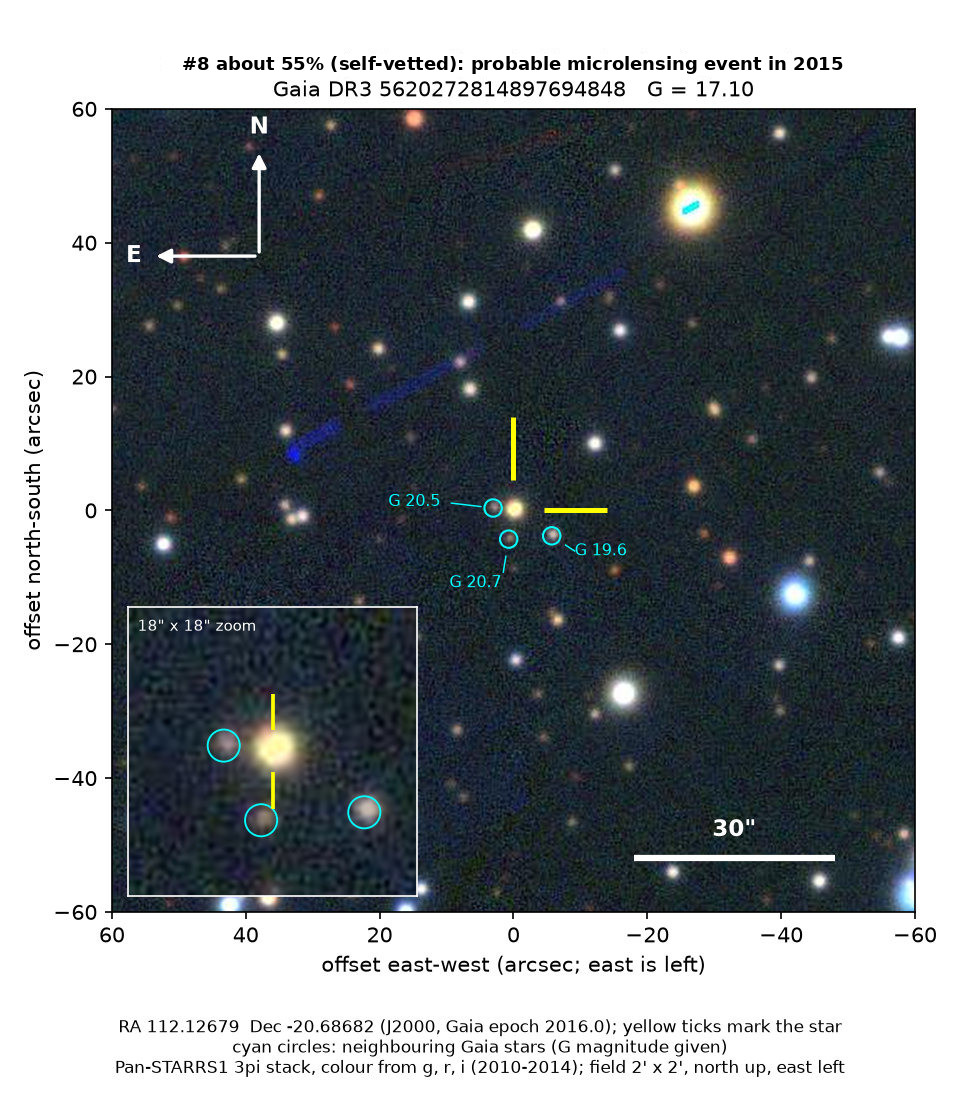
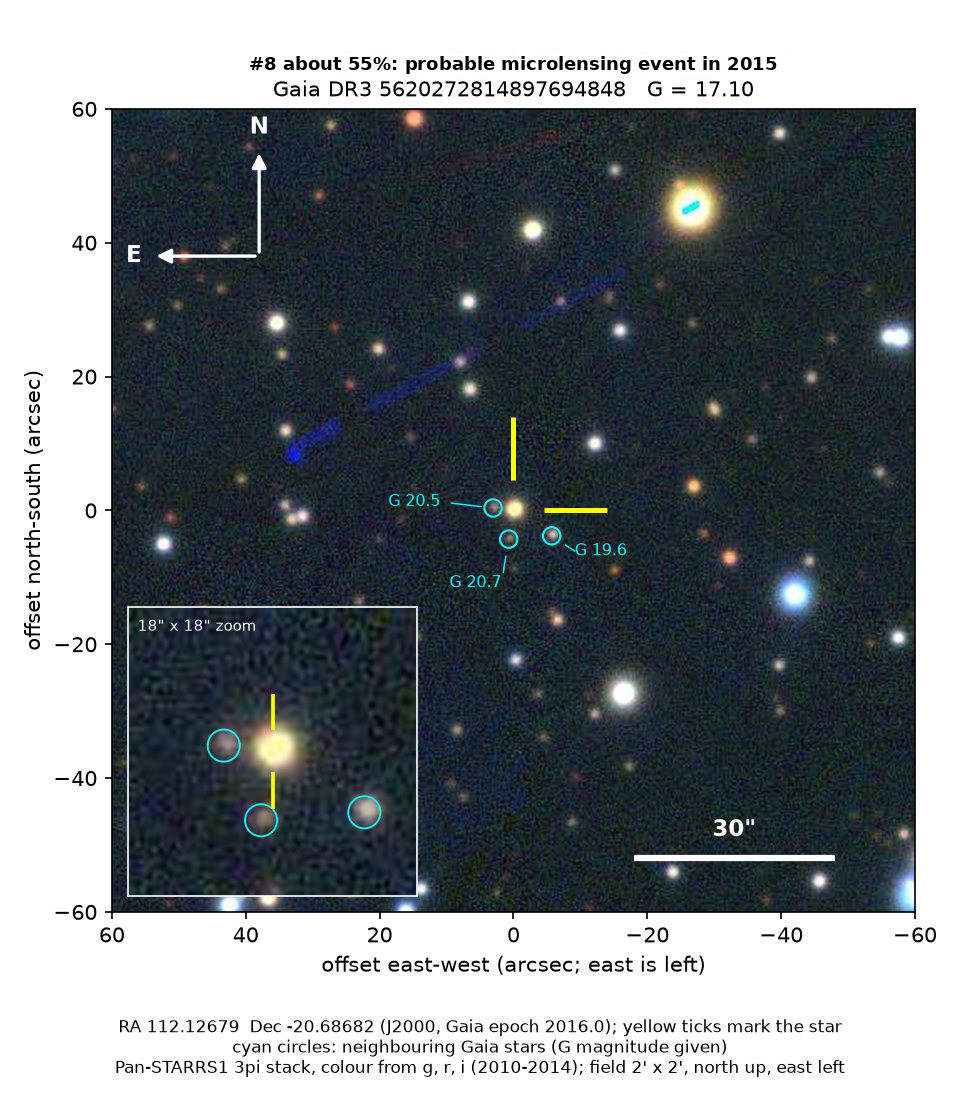
Galaxy: figure labels without internal notes
Drop "(self-vetted)" from the title line of the finder charts and light
curves of candidates 1 to 10 (the glyphs are cut out and the line
re-centred; nothing else in the figures changes). On candidate 4, the
epochs figure no longer ends with a pointer to an unpublished data file,
and the light-curve note points to the caption instead of a README.

Changed region(s): [[0.1875, 0.0311, 0.875, 0.0621]]

diff --git a/vibe-projects/galaxy/4-brightening-381248613189061632/index.html b/vibe-projects/galaxy/4-brightening-381248613189061632/index.html
@@ -61,7 +61,7 @@
 <dt>Probability</dt><dd>This candidate is unconfirmed. The percentage under the title is an estimate of the chance that it is a real, previously unrecorded case of the kind described. The estimate has not been checked by outside experts. See the <a href="../index.html#caveat">introduction</a> to all twelve candidates.</dd>
 <dt>Caveat</dt><dd>LAMOST and the Sloan survey, the public archives checked for a spectrum, have none of this star, so its type and the cause of the change rest on Gaia’s colours. The faint level before 2010 comes from photographic plates, precise to 0.05 to 0.12 magnitudes, and from one Sloan visit; an independent scan of the same plates agrees within the errors. The rotation period is uncertain (1.19, 0.86 or 6.1 days). A rare kind of variable star that behaves like this cannot be ruled out.</dd>
 </dl><figure class="galaxy-fig galaxy-wide"><img src="finder.jpg" width="960" height="1095" loading="lazy" alt="A two-arcminute patch of sky near the Andromeda Galaxy. Yellow ticks bracket a small star. Brighter stars nearby are unmarked.">
-<figcaption>Pan-STARRS1 colour image in the g, r and i filters, from 2010 to 2014, two arcminutes by two. The star is the small dot between the yellow ticks, and the brighter stars nearby are unrelated. North is up, east is left, and the white bar is 30 arcseconds.</figcaption></figure><figure class="galaxy-fig galaxy-wide"><img src="epochs_r.jpg" width="1547" height="1378" loading="lazy" alt="Twelve small sky images in three rows and four columns, from 1989, 2009, 2012 and 2025. The top row is the star, which is faint in 1989 and 2009 and clearly brighter by 2025. The lower rows are two comparison stars that stay about the same.">
+<figcaption>Pan-STARRS1 colour image in the g, r and i filters, from 2010 to 2014, two arcminutes by two. The star is the small dot between the yellow ticks, and the brighter stars nearby are unrelated. North is up, east is left, and the white bar is 30 arcseconds.</figcaption></figure><figure class="galaxy-fig galaxy-wide"><img src="epochs_r.jpg" width="1547" height="1340" loading="lazy" alt="Twelve small sky images in three rows and four columns, from 1989, 2009, 2012 and 2025. The top row is the star, which is faint in 1989 and 2009 and clearly brighter by 2025. The lower rows are two comparison stars that stay about the same.">
 <figcaption>The star beside two steady comparison stars, A at r = 17.74 and B at r = 16.99, on the 1989 red photographic plate, in Pan-STARRS1 r images from December 2009 and October 2012, and in a ZTF r image from August 2025. In 1989 and 2009 the star looks like the fainter star A; by 2025 it looks almost like the brighter star B. These are the images themselves, not difference images. A negative “star minus A” value on the figure means the star is brighter than A.</figcaption></figure>
 <p class="galaxy-pager"><a href="../3-fading-4296242940002232704/index.html" rel="prev">← Candidate 3</a> · <a href="../index.html">All candidates</a> · <a href="../5-dip-4096419827121636736/index.html" rel="next">Candidate 5 →</a></p>
 </div>

diff --git a/vibe-projects/galaxy/README.md b/vibe-projects/galaxy/README.md
@@ -4,7 +4,7 @@ Twelve stars from public sky surveys, including Gaia DR3, that seem to have brig
 
 - `index.html`: one intro paragraph, then three lists numbered 1 to 12 in display order, highest probability first inside each list. Unexplained changes are 1 to 6, possible new microlensing events are 7 to 10, and possible hidden companions are 11 and 12.
 - `<folder>/index.html`: one page per candidate. The folder name starts with that display number and keeps the Gaia DR3 id (`3-fading-4296242940002232704`).
-- `finder.jpg`, `lightcurve.jpg`, and, where they exist, `decam_i_epochs.jpg`, `decam_z_epochs.jpg` and `epochs_r.jpg`: the figures, next to the page that uses them. They are JPEGs made from the original PNG figures, flattened onto white, kept under about 400 KB, with the original pixel size so the labels stay readable.
+- `finder.jpg`, `lightcurve.jpg`, and, where they exist, `decam_i_epochs.jpg`, `decam_z_epochs.jpg` and `epochs_r.jpg`: the figures, next to the page that uses them. They are JPEGs made from the original PNG figures, flattened onto white, kept under about 400 KB, with the original pixel size so the labels stay readable. The bold title line of each finder chart and light curve gives the display number and the probability, so it has to be redrawn if either changes.
 
 The pages use the same header, footer and figure styles as the Mars candidates (`galaxy-fig`, `galaxy-list`, `galaxy-facts` in `css/site.css`).
 
